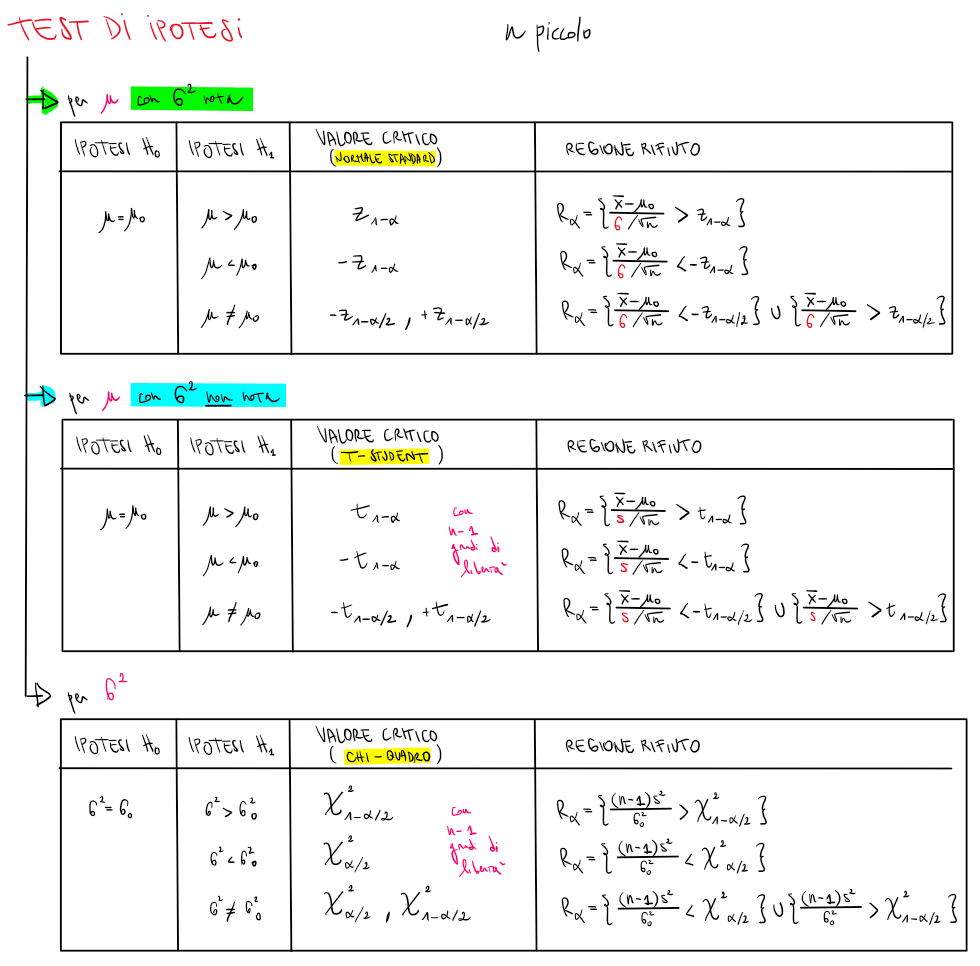
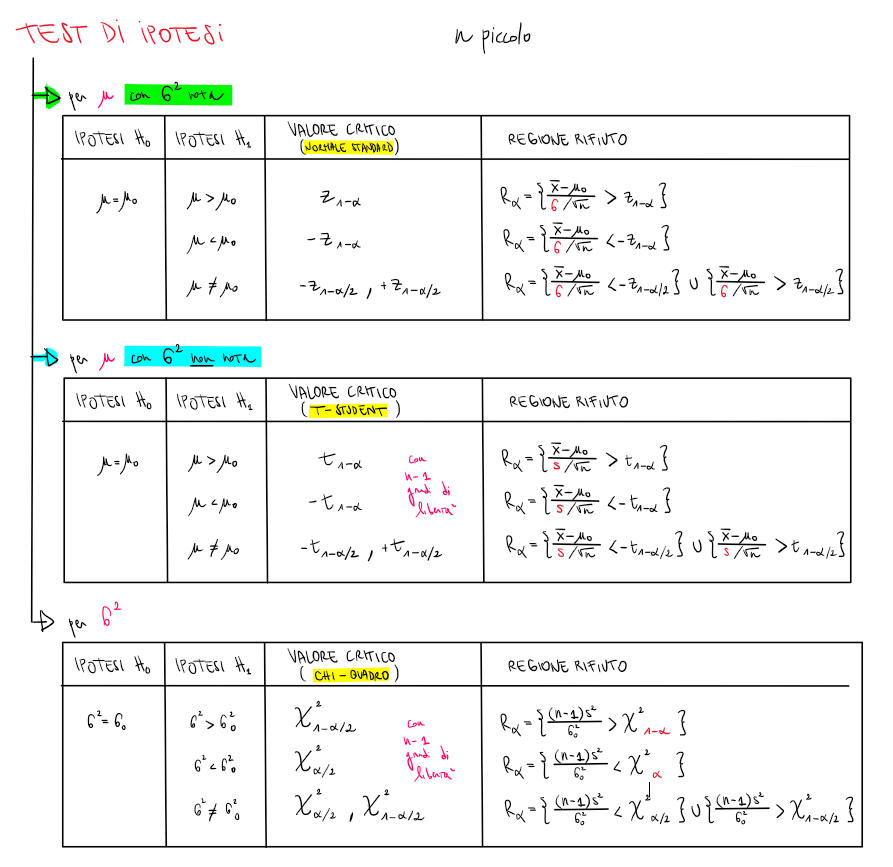
updates

diff --git a/statistica.tex b/statistica.tex
@@ -5099,6 +5099,18 @@ Quando il campione è sufficientemente grande, possiamo approssimarlo alla Norma
 		\includegraphics[width=1.5\linewidth]{riassunto-test-ipotesi-n-grande.png}%
 	}
 \end{center}
+\newpage
+\subsubsection{Calcolare soglia critica}
+\begin{center}
+	\makebox[\textwidth][c]{%
+		\includegraphics[width=1.3\linewidth]{riassunto-soglia-n-piccolo.png}%
+	}
+\end{center}
+\begin{center}
+	\makebox[\textwidth][c]{%
+		\includegraphics[width=1.3\linewidth]{riassunto-soglia-n-grande.png}%
+	}
+\end{center}
 %%%%%%%%%%%%%%%%%%%%%%%%%%%%%%%%%%%%%%%%%%%%%%%%%%%%%%%%%%%%%%%%%%%%%%%%%%%%%%%%%%%%%%%%%%%%%%%%%%%%%%
 %%%%%%%%%%%%%%%%%%%%%%%%%%%%%%%%%%%%%%%%%%%%%%%%%%%%%%%%%%%%%%%%%%%%%%%%%%%%%%%%%%%%%%%%%%%%%%%%%%%%%%
 \end{document}